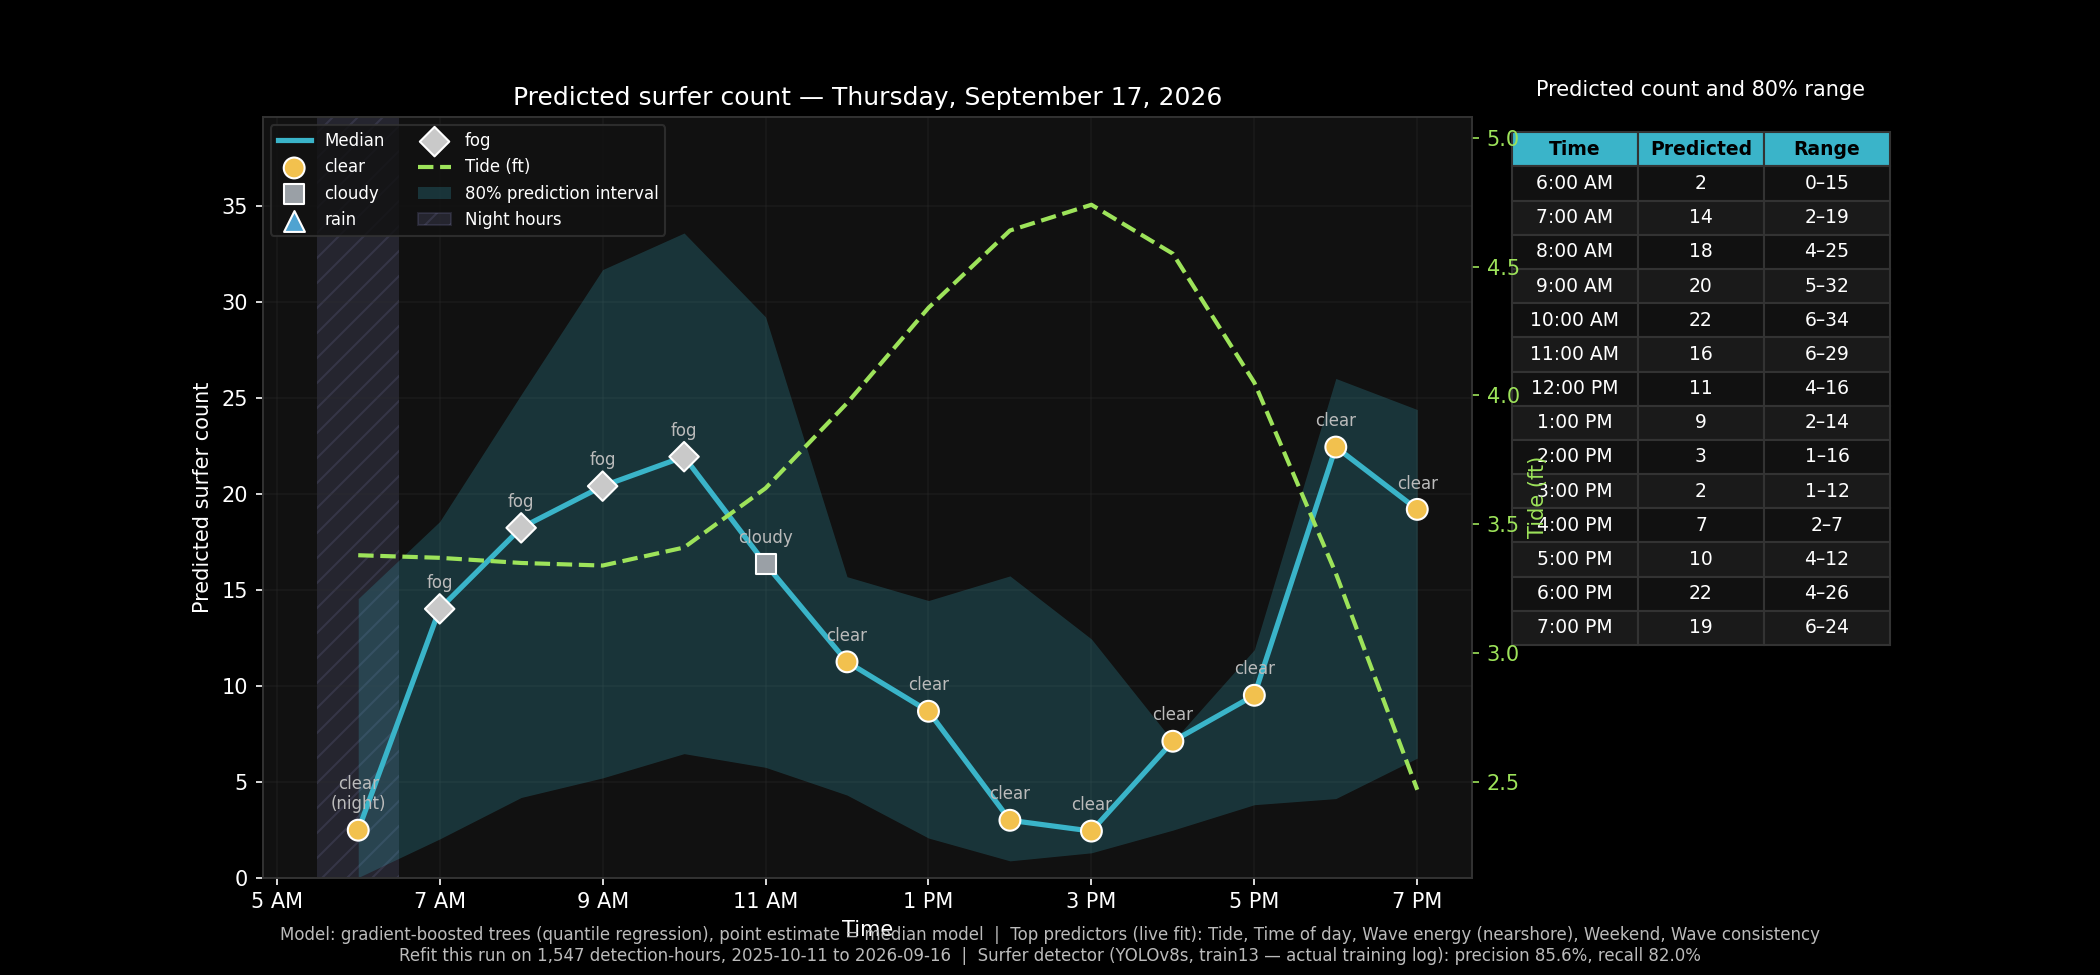
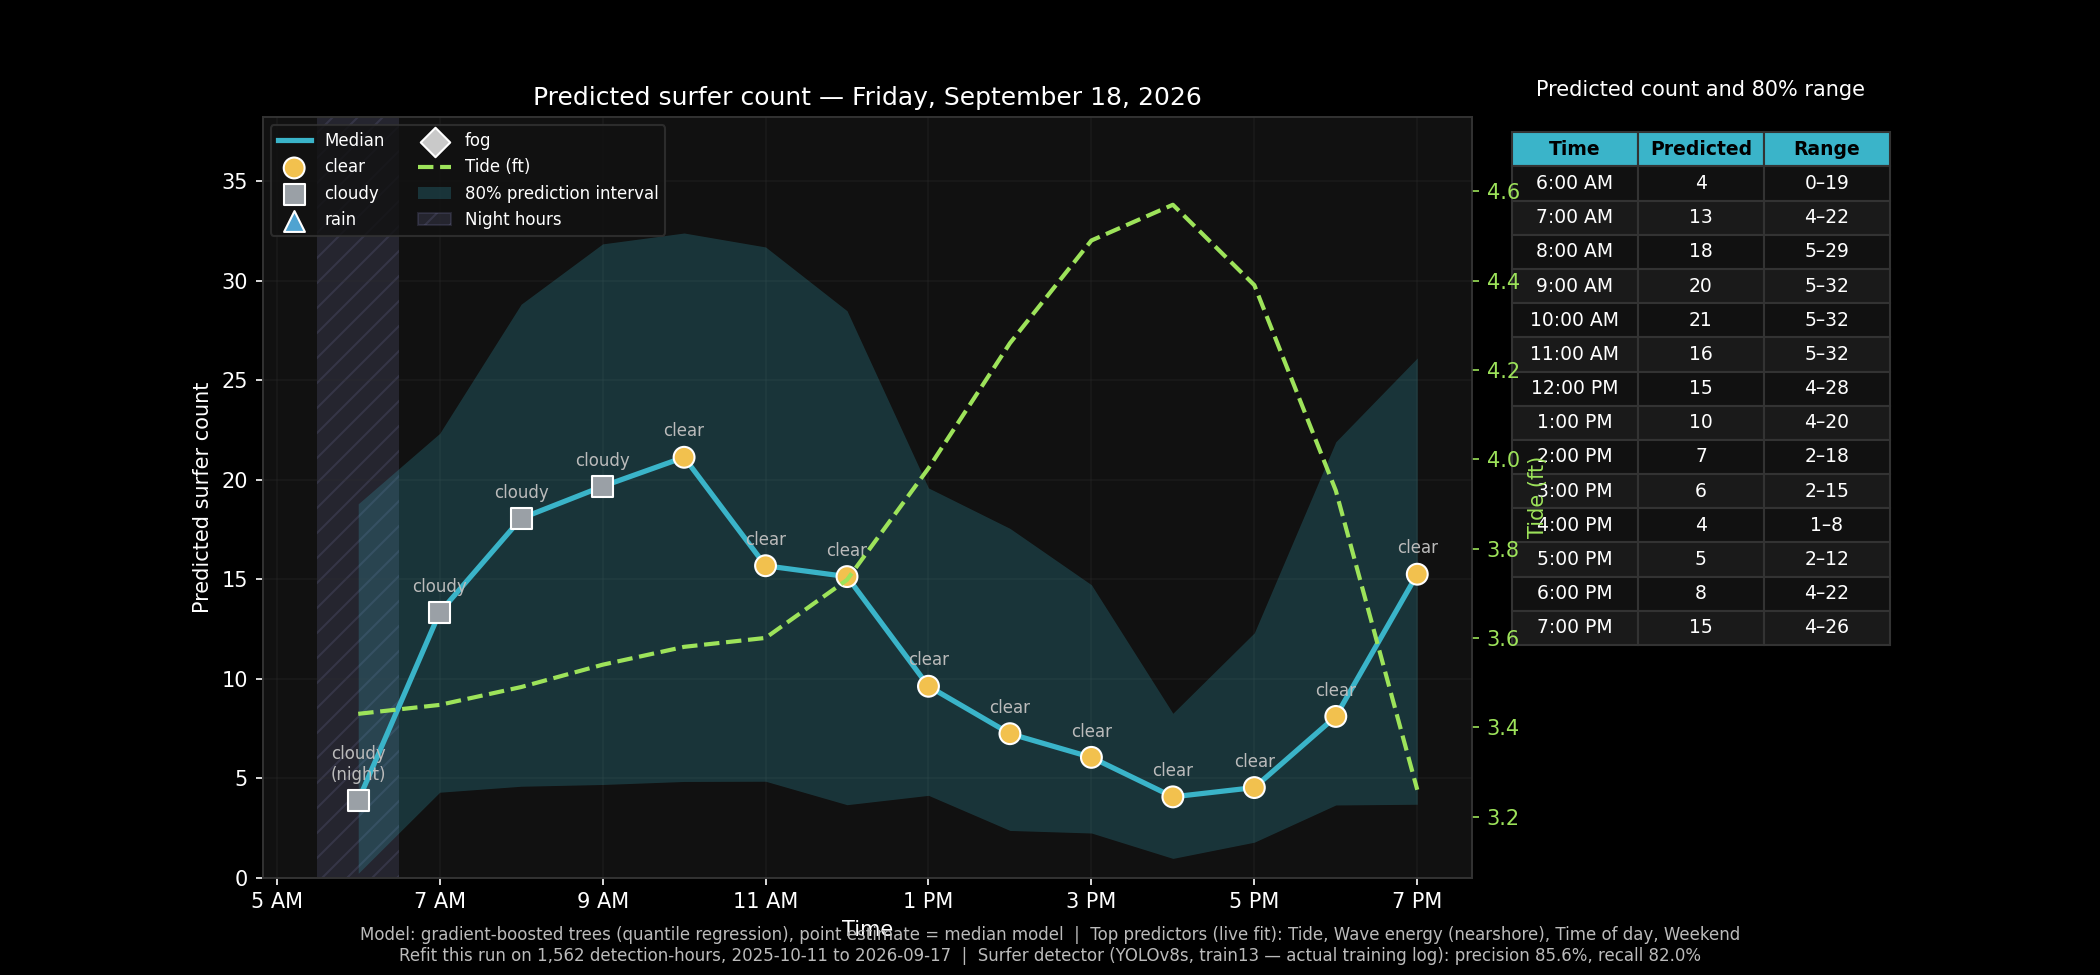
Automated: update daily surfer count chart (2026-09-17)

diff --git a/README.md b/README.md
@@ -9,12 +9,12 @@ This project collects images from a shoreline video camera and tries to answer t
 **_This matters to me as a surfer because the competition for each wave becomes more intense as the crowd size increases.  It helps me choose when to go and know what to expect. _**
 
 <!-- DAILY_CHART_START -->
-#### A Full Day of Surfer Detections: Monday, September 14, 2026
+#### A Full Day of Surfer Detections: Thursday, September 17, 2026
 
 Each green box below contains a surfer, according to the object detection model.  Each number above a box indicates the probability that the object is a surfer.  Look carefully and you may find additional surfers that the model missed or other objects which are misclassified as surfers - like the wind sock at the bottom center of the photo.  Each frame is one hour of that day, one second apart, and the ends of the camera's view are cropped off so the surfers are big enough to see.
-![Detections through Monday, September 14, 2026](data/charts/latest_detection.gif)
+![Detections through Thursday, September 17, 2026](data/charts/latest_detection.gif)
 
-#### The Surfer Crowd Forecast for: Thursday, September 17, 2026
+#### The Surfer Crowd Forecast for: Friday, September 18, 2026
 
 Once enough hours and days were gathered along with weather and surf conditions, a surf count prediction model was built to forecast how many surfers would be present at each hour for the coming day.  This is useful for surfers to plan to avoid busy times or at least know what to expect.  Recently the predictions have been low compared to actual counts, so more images are being collected to improve the object detection model's ability to find surfers in a variety of light and water conditions, like fog or choppy water surfaces.
 ![Latest daily prediction chart](data/charts/latest.png)
